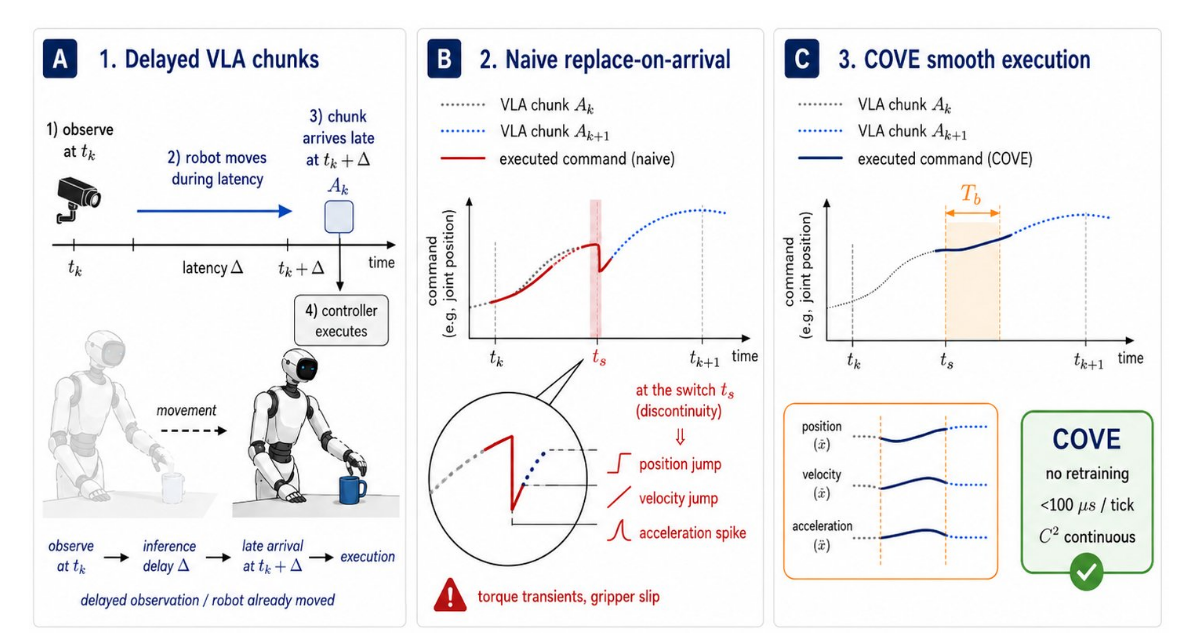
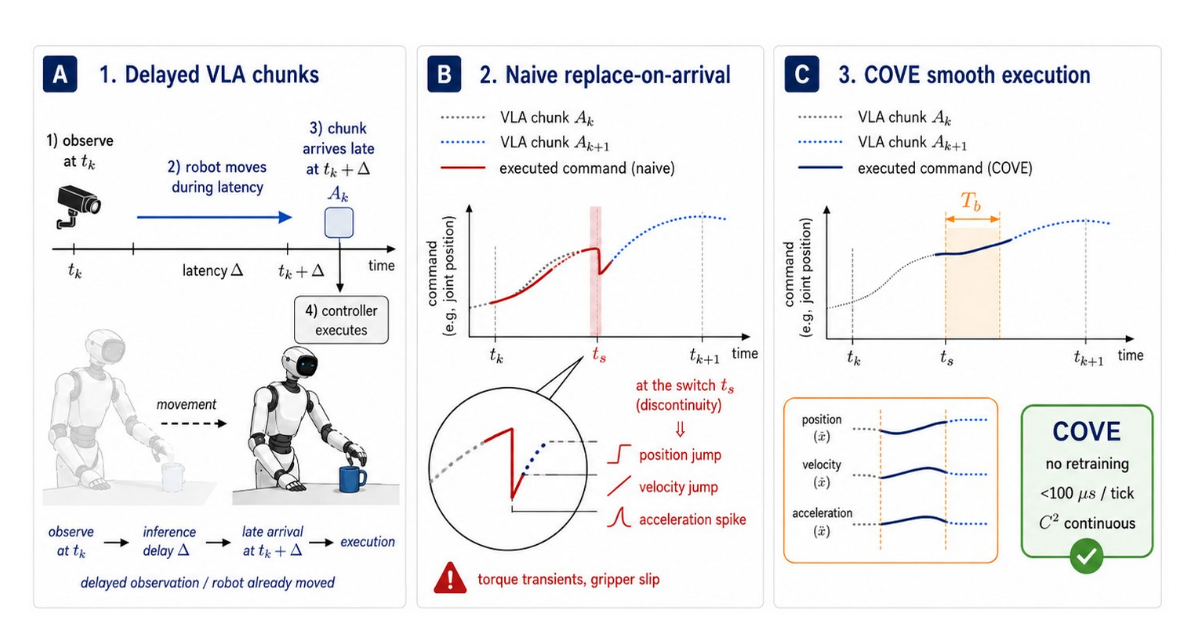
update real results

diff --git a/index.html b/index.html
@@ -12,7 +12,7 @@
   <link rel="stylesheet" href="./static/css/bulma-carousel.min.css">
   <link rel="stylesheet" href="./static/css/bulma-slider.min.css">
   <link rel="stylesheet" href="https://cdn.jsdelivr.net/gh/jpswalsh/academicons@1/css/academicons.min.css">
-  <link rel="stylesheet" href="./static/css/index.css?v=teaser-fix-2">
+  <link rel="stylesheet" href="./static/css/index.css?v=teaser-fix-3">
   <link rel="icon" href="./static/images/favicon.svg">
 
   <script src="https://ajax.googleapis.com/ajax/libs/jquery/3.5.1/jquery.min.js"></script>
@@ -76,10 +76,10 @@
           <div class="column has-text-centered">
             <div class="publication-links">
               <span class="link-block"><a href="#" class="external-link button is-normal is-rounded is-dark"><span class="icon"><i class="fas fa-file-pdf"></i></span><span> Paper (Comming soon)</span></a></span>
-              <span class="link-block"><a href="#" class="external-link button is-normal is-rounded is-dark"><span class="icon"><i class="fas fa-file-alt"></i></span><span>Appendix</span></a></span>
+              <!-- <span class="link-block"><a href="#" class="external-link button is-normal is-rounded is-dark"><span class="icon"><i class="fas fa-file-alt"></i></span><span>Appendix</span></a></span> -->
               <span class="link-block"><a href="#" class="external-link button is-normal is-rounded is-dark"><span class="icon"><i class="ai ai-arxiv"></i></span><span>arXiv</span></a></span>
               <span class="link-block"><a href="#" class="external-link button is-normal is-rounded is-dark"><span class="icon"><i class="fab fa-github"></i></span><span>Code (Comming soon)</span></a></span>
-              <span class="link-block"><a href="#simulation" class="external-link button is-normal is-rounded is-dark"><span class="icon"><i class="fas fa-chart-line"></i></span><span>Results</span></a></span>
+              <span class="link-block"><a href="#hardware" class="external-link button is-normal is-rounded is-dark"><span class="icon"><i class="fas fa-chart-line"></i></span><span>Results</span></a></span>
             </div>
           </div>
         </div>
@@ -261,11 +261,11 @@
       <table class="table is-striped is-hoverable is-fullwidth results-table paper-results-table">
         <thead><tr><th>Execution layer</th><th>Blend window</th><th>Env-action jump ↓</th><th>Success [%] ↑</th></tr></thead>
         <tbody>
-          <tr><td>COVE (ours)</td><td>2-6 ms</td><td>0.86</td><td>74.7</td></tr>
+          <tr><td>COVE</td><td>2-6 ms</td><td>0.86</td><td>74.7</td></tr>
           <tr><td>COVE⊕RTC</td><td>2-6 ms</td><td>0.56</td><td><strong>75.7</strong></td></tr>
-          <tr><td>COVE (ours)</td><td>5-12 ms</td><td>0.33</td><td>67.7</td></tr>
+          <tr><td>COVE</td><td>5-12 ms</td><td>0.33</td><td>67.7</td></tr>
           <tr class="is-selected-row"><td>COVE⊕RTC</td><td>5-12 ms</td><td>0.30</td><td>75.3</td></tr>
-          <tr><td>COVE (ours)</td><td>8-20 ms</td><td><strong>0.26</strong></td><td>61.5</td></tr>
+          <tr><td>COVE</td><td>8-20 ms</td><td><strong>0.26</strong></td><td>61.5</td></tr>
           <tr><td>COVE⊕RTC</td><td>8-20 ms</td><td>0.27</td><td>68.0</td></tr>
         </tbody>
       </table>
@@ -403,8 +403,8 @@
       Extra real-robot videos for qualitative inspection. These are auxiliary media and are kept separate from the main quantitative hardware table.
     </p>
     <div class="real-video-grid aux-real-grid">
-      <div class="video-card"><h4>Real-robot COVE 1</h4><video controls muted playsinline preload="metadata"><source src="./static/videos/vr_h3/aux_real_cove_1.mp4" type="video/mp4"></video></div>
-      <div class="video-card"><h4>Real-robot COVE 2</h4><video controls muted playsinline preload="metadata"><source src="./static/videos/vr_h3/aux_real_cove_2.mp4" type="video/mp4"></video></div>
+      <div class="video-card"><h4>Real-robot picking with COVE</h4><video controls muted playsinline preload="metadata"><source src="./static/videos/vr_h3/aux_real_cove_1.mp4" type="video/mp4"></video></div>
+      <div class="video-card"><h4>Real-robot placing with COVE</h4><video controls muted playsinline preload="metadata"><source src="./static/videos/vr_h3/aux_real_cove_2.mp4" type="video/mp4"></video></div>
     </div>
   </div>
 </section>

diff --git a/static/css/index.css b/static/css/index.css
@@ -533,3 +533,8 @@ body {
 .aux-real-grid {
   max-width: 820px;
 }
+
+/* Reduce vertical space between sections to ~70% */
+.section {
+  padding: 1.5rem 1.5rem !important;
+}
